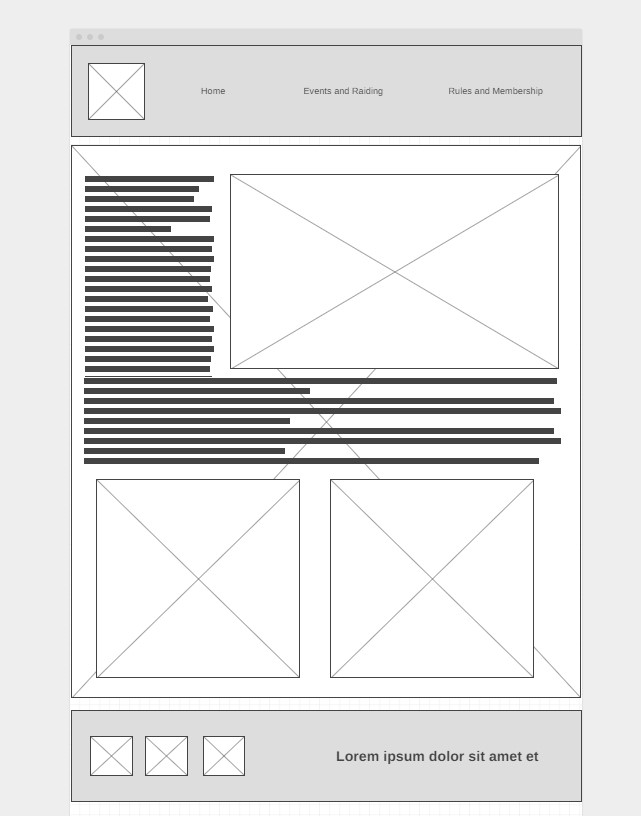
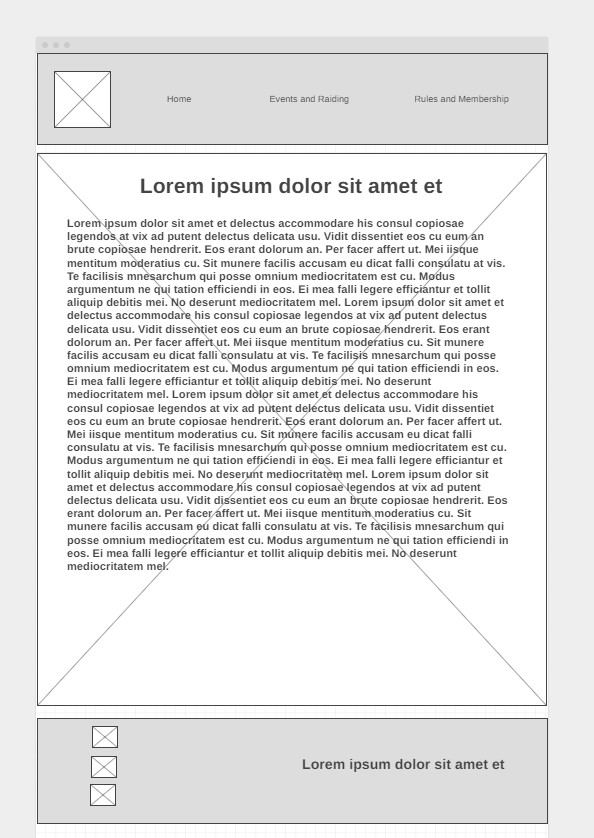
UD

diff --git a/wwr/yakuzasite/rules.html b/wwr/yakuzasite/rules.html
@@ -25,7 +25,7 @@
     </header>
     <main>
         <div class="rules">
-
+            <h1>Membership and Rules</h1>
             <p>
                 -Ages 18+ (members younger than 18 will be considered case by case only)
                 <br>
